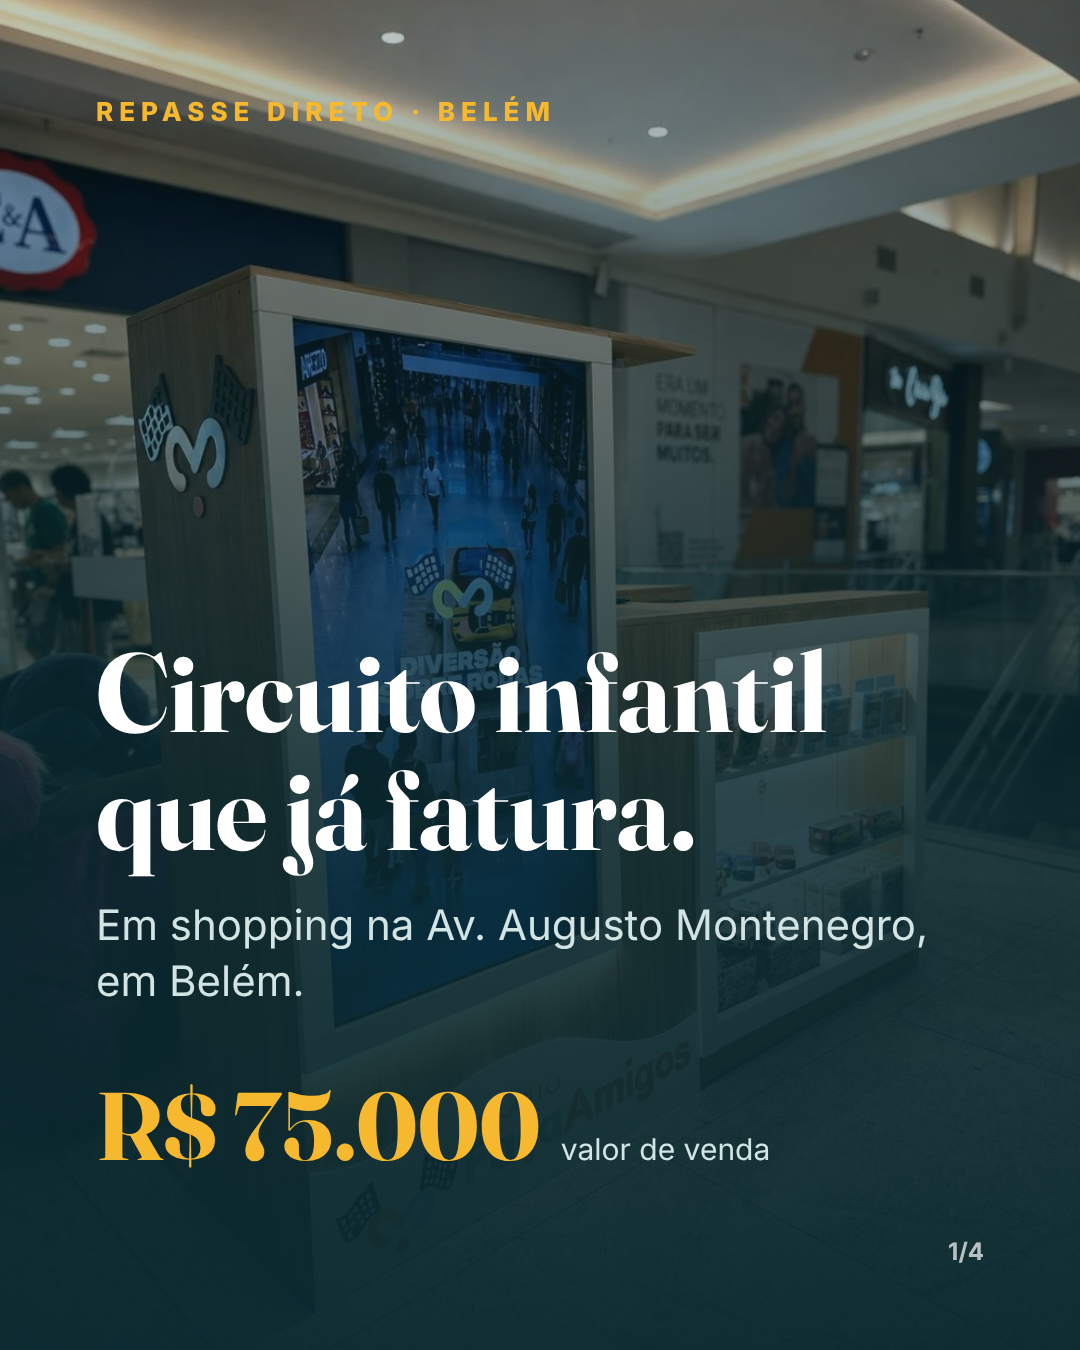
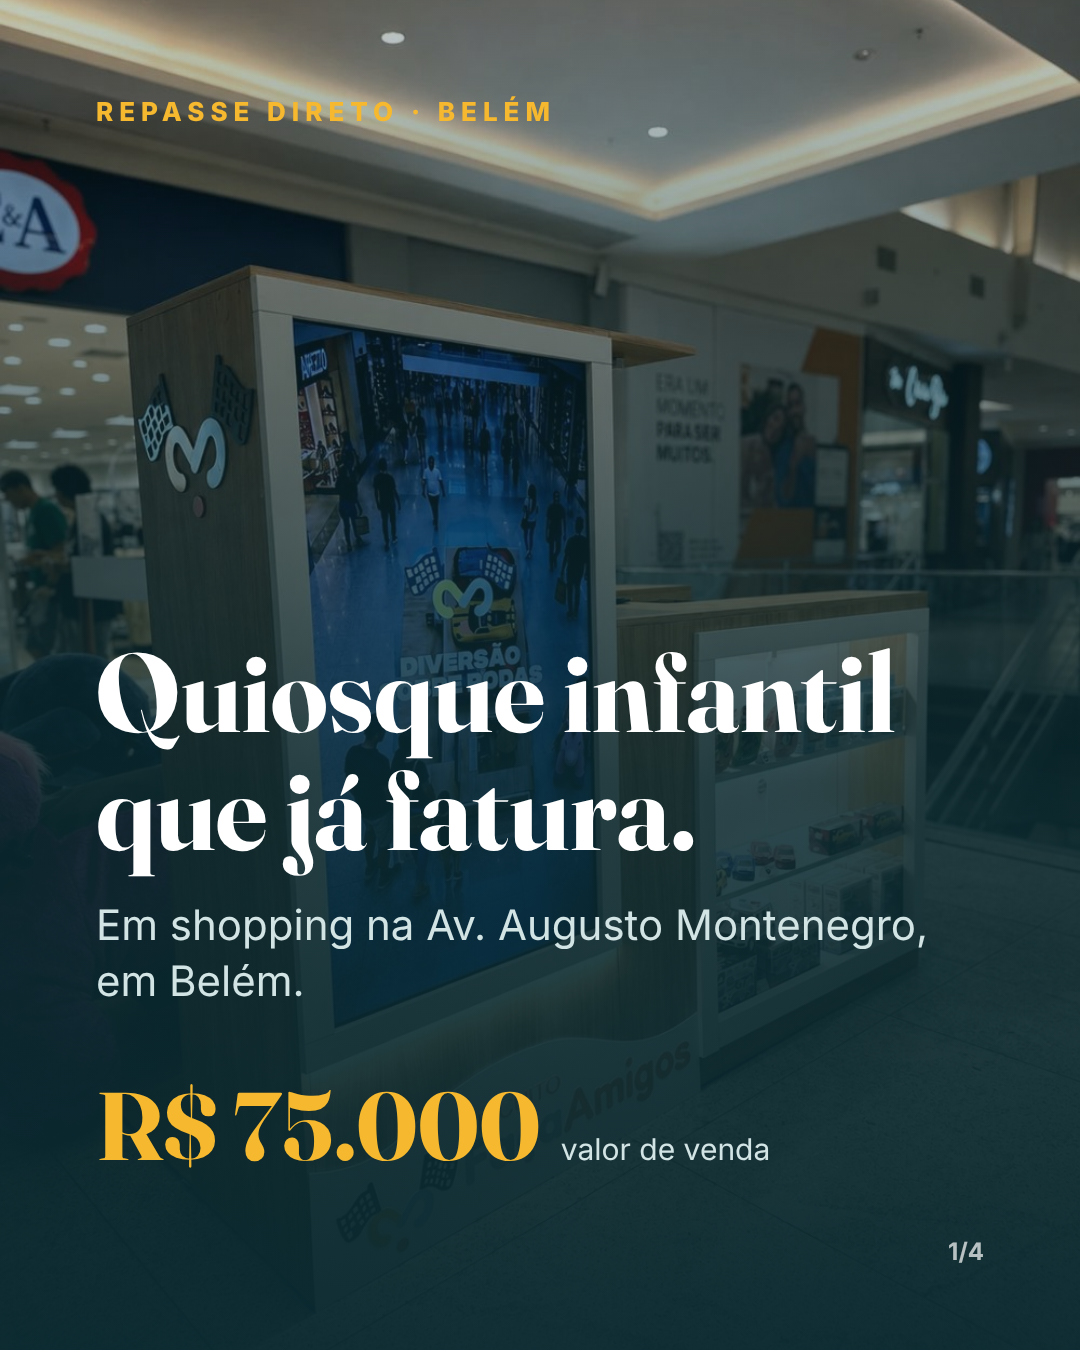
feat: troca circuito por quiosque nos textos da página, slides e legenda
Claude-Session: https://claude.ai/code/session_017CkKxD3f3y8NacZGNLNyWv

Changed region(s): [[0.1222, 0.4667, 0.825, 0.56]]

diff --git a/circuito/index.html b/circuito/index.html
@@ -3,11 +3,11 @@
 <head>
   <meta charset="utf-8">
   <meta name="viewport" content="width=device-width, initial-scale=1">
-  <title>Circuito infantil que já fatura | Av. Augusto Montenegro, Belém</title>
-  <meta name="description" content="Assuma um circuito de veículos elétricos infantis que já fatura, em shopping na Av. Augusto Montenegro, em Belém. Valor de venda R$ 75 mil, com cessão de contrato.">
+  <title>Quiosque infantil que já fatura | Av. Augusto Montenegro, Belém</title>
+  <meta name="description" content="Assuma um quiosque de veículos elétricos infantis que já fatura, em shopping na Av. Augusto Montenegro, em Belém. Valor de venda R$ 75 mil, com cessão de contrato.">
   <link rel="canonical" href="https://franquia-belem.netlify.app/circuito/">
   <meta property="og:type" content="website">
-  <meta property="og:title" content="Circuito infantil que já fatura | Repasse R$ 75 mil">
+  <meta property="og:title" content="Quiosque infantil que já fatura | Repasse R$ 75 mil">
   <meta property="og:description" content="Operação em andamento, faturamento médio de R$ 14,7 mil por mês (PDV). Valor de venda R$ 75.000.">
   <meta property="og:url" content="https://franquia-belem.netlify.app/circuito/">
   <meta property="og:image" content="https://franquia-belem.netlify.app/circuito/images/circuito-quiosque-frente.jpg">
@@ -30,7 +30,7 @@
 
 <header class="top">
   <div class="wrap">
-    <b>FaçaAmigos | Repasse do circuito</b>
+    <b>FaçaAmigos | Repasse do quiosque</b>
     <a class="btn" href="#interesse" data-cta="header">Quero ver os números</a>
   </div>
 </header>
@@ -41,7 +41,7 @@
   <div class="wrap grid">
     <div class="copy">
       <span class="eyebrow" style="color:var(--amarelo)">Repasse direto, sem intermediários</span>
-      <h1>Circuito infantil que já fatura, em shopping na Av. Augusto Montenegro.</h1>
+      <h1>Quiosque infantil que já fatura, em shopping na Av. Augusto Montenegro.</h1>
       <p class="lead">Fechada a cessão pelo shopping, você assume no dia seguinte, com a sua marca.</p>
       <div class="stats" aria-label="Números da operação">
         <div><b class="price">R$ 75.000</b><span>valor de venda</span></div>
@@ -79,7 +79,7 @@
   <div class="wrap">
     <span class="eyebrow">A pergunta que você vai fazer</span>
     <h2>Por que vender uma operação com 3 meses?</h2>
-    <p class="lead-p">Sou a FaçaAmigos. Montei este circuito em 2026 e hoje concentro capital e equipe nos Playgrounds, na Clínica e no Instituto. O circuito funciona e fatura, mas precisa de um operador dedicado para crescer, e esse não é mais o meu foco.</p>
+    <p class="lead-p">Sou a FaçaAmigos. Montei este quiosque em 2026 e hoje concentro capital e equipe nos Playgrounds, na Clínica e no Instituto. O quiosque funciona e fatura, mas precisa de um operador dedicado para crescer, e esse não é mais o meu foco.</p>
     <p class="lead-p">O histórico é curto e eu digo isso de frente: são 3 meses de dados reais de PDV, que você confere nos extratos depois do termo de sigilo.</p>
   </div>
 </section>
@@ -89,7 +89,7 @@
     <span class="eyebrow">A operação hoje</span>
     <h2>Quiosque montado, frota rodando</h2>
     <div class="gallery">
-      <img class="p" src="images/circuito-quiosque-frente.jpg" alt="Quiosque do circuito com painel de vídeo e vitrine, em shopping de Belém" loading="lazy" width="1000" height="1333">
+      <img class="p" src="images/circuito-quiosque-frente.jpg" alt="Quiosque com painel de vídeo e vitrine, em shopping de Belém" loading="lazy" width="1000" height="1333">
       <img class="p" src="images/circuito-quiosque-painel.jpg" alt="Painel de vídeo do quiosque exibindo a frota de carrinhos elétricos" loading="lazy" width="1000" height="1333">
       <img class="p p3" src="images/circuito-buggy.jpg" alt="Buggy elétrico infantil bege e preto sobre a pista de madeira" loading="lazy" width="1000" height="1333">
       <img class="w" src="images/circuito-carros-amarelo-branco.jpg" alt="Esportivo amarelo e SUV branco elétricos infantis sobre a prateleira da pista" loading="lazy" width="1400" height="1050">
@@ -113,7 +113,7 @@
         <h3>Incluído na venda</h3>
         <ul class="ticks">
           <li>9 veículos elétricos e acessórios: 4 pelúcias, moto, jipe, carro de bombeiros, SUV branco e esportivo amarelo</li>
-          <li>Quiosque com marcenaria, tela de LED de 50 polegadas, impressora de cupom não fiscal, notebook Core i5, câmeras de monitoramento, carregador rápido e 10 baterias extras</li>
+          <li>Marcenaria do quiosque, tela de LED de 50 polegadas, impressora de cupom não fiscal, notebook Core i5, câmeras de monitoramento, carregador rápido e 10 baterias extras</li>
           <li>Cessão do contrato de locação com o shopping, sujeita à aprovação dele</li>
           <li>Procedimentos operacionais documentados</li>
           <li>Equipe atual: 2 funcionárias treinadas, em escala 12x36, com a transferência incluída</li>
@@ -124,7 +124,7 @@
         <ul class="ticks no">
           <li>Marca e personagens da FaçaAmigos. Você opera sob marca própria.</li>
         </ul>
-        <p class="note">Você compra uma operação, não uma franquia nem uma licença de marca. A identidade do circuito é sua.</p>
+        <p class="note">Você compra uma operação, não uma franquia nem uma licença de marca. A identidade do quiosque é sua.</p>
       </div>
     </div>
   </div>
@@ -183,8 +183,8 @@
     <span class="eyebrow">Perguntas frequentes</span>
     <h2>Dúvidas antes de pedir os números</h2>
     <details><summary>O shopping pode recusar a cessão?</summary><p>Pode. A cessão depende da aprovação do shopping, por isso é a última etapa antes de você assumir. Acompanho a conversa com o shopping junto com você.</p></details>
-    <details><summary>Preciso ter experiência com circuito infantil?</summary><p>Não é pré-requisito. A operação tem procedimentos documentados. Quem aproveita melhor o potencial é quem vai estar presente na gestão.</p></details>
-    <details><summary>A FaçaAmigos tem um Playground no mesmo shopping. Isso concorre com o circuito?</summary><p>Mantenho um Playground no mesmo shopping. São produtos diferentes: o Playground é um espaço de brincar, e o circuito é passeio em veículos elétricos. Aceito cláusula de não concorrência, a combinar com você, para que a operação que você comprar não dispute o mesmo público comigo.</p></details>
+    <details><summary>Preciso ter experiência com quiosque infantil?</summary><p>Não é pré-requisito. A operação tem procedimentos documentados. Quem aproveita melhor o potencial é quem vai estar presente na gestão.</p></details>
+    <details><summary>A FaçaAmigos tem um Playground no mesmo shopping. Isso concorre com o quiosque?</summary><p>Mantenho um Playground no mesmo shopping. São produtos diferentes: o Playground é um espaço de brincar, e o quiosque é passeio em veículos elétricos. Aceito cláusula de não concorrência, a combinar com você, para que a operação que você comprar não dispute o mesmo público comigo.</p></details>
     <details><summary>Posso usar a marca e os personagens da FaçaAmigos?</summary><p>Não. Marca e personagens não estão incluídos. Você opera sob marca própria.</p></details>
     <details><summary>O que os R$ 75 mil incluem?</summary><p>É o valor agregado da operação: veículos, acessórios, estrutura da pista, equipamentos de apoio e cessão do contrato com o shopping (sujeita à aprovação).</p></details>
     <details><summary>Qual é o lucro mensal?</summary><p>Não publico lucro em página aberta. O faturamento médio é de R$ 14,7 mil por mês. Custos e resultado vêm com os documentos, depois do termo de sigilo.</p></details>
@@ -204,7 +204,7 @@
 
 <footer>
   <div class="wrap">
-    <p><b>FaçaAmigos</b> | Repasse do circuito de veículos elétricos infantis, Belém (PA)</p>
+    <p><b>FaçaAmigos</b> | Repasse do quiosque de veículos elétricos infantis, Belém (PA)</p>
     <p>Contato: <a href="mailto:institutofacaamigos@gmail.com">institutofacaamigos@gmail.com</a>. As informações sobre a operação são enviadas depois do preenchimento do formulário.</p>
     <p>Os números são médias históricas de PDV e não constituem garantia de resultado futuro. A cessão do contrato depende da aprovação do shopping. © <span id="year"></span></p>
   </div>

diff --git a/instagram-posts/circuito-slides.html b/instagram-posts/circuito-slides.html
@@ -1,6 +1,6 @@
 <!doctype html>
 <html lang="pt-BR"><head><meta charset="utf-8">
-<title>Circuito: carrossel de venda</title>
+<title>Quiosque: carrossel de venda</title>
 <link rel="preconnect" href="https://fonts.googleapis.com"><link rel="preconnect" href="https://fonts.gstatic.com" crossorigin>
 <link href="https://fonts.googleapis.com/css2?family=Fraunces:opsz,wght@9..144,600;9..144,700&family=Inter:wght@400;600;700;800&display=swap" rel="stylesheet">
 <style>
@@ -22,7 +22,7 @@ h1,h2,.big{font-family:Fraunces,Georgia,serif;font-weight:700;line-height:1.05}
 <div class="slide photo" style="background-image:linear-gradient(to top,rgba(10,42,49,.97) 0%,rgba(10,42,49,.86) 42%,rgba(10,42,49,.25) 100%),url(../circuito/images/circuito-quiosque-frente.jpg)">
   <p class="kick">Repasse direto · Belém</p>
   <div class="sp"></div>
-  <h1 style="font-size:112px;max-width:880px">Circuito infantil que já fatura.</h1>
+  <h1 style="font-size:112px;max-width:880px">Quiosque infantil que já fatura.</h1>
   <p style="font-size:42px;line-height:1.35;margin-top:28px;max-width:860px;color:#D3E4E5">Em shopping na Av. Augusto Montenegro, em Belém.</p>
   <div style="margin-top:56px;padding-bottom:70px"><span style="font-family:Fraunces,serif;font-weight:700;font-size:96px;color:#F5B82E">R$ 75.000</span><span style="font-size:30px;margin-left:20px;color:#D3E4E5">valor de venda</span></div>
   <p class="pg">1/4</p>
@@ -50,7 +50,7 @@ h1,h2,.big{font-family:Fraunces,Georgia,serif;font-weight:700;line-height:1.05}
   <h2 style="font-size:84px;margin-top:40px;color:#0F3A43">Operação inteira,<br>com a sua marca.</h2>
   <div style="margin-top:40px;font-size:38px;line-height:1.3;display:grid;gap:18px">
     <p>✓&nbsp; 9 veículos elétricos e acessórios</p>
-    <p>✓&nbsp; Quiosque com tela de LED de 50 polegadas, notebook e câmeras</p>
+    <p>✓&nbsp; Marcenaria do quiosque, tela de LED de 50 polegadas, notebook e câmeras</p>
     <p>✓&nbsp; Equipe atual: 2 funcionárias treinadas</p>
     <p>✓&nbsp; Procedimentos documentados</p>
     <p>✓&nbsp; Cessão do contrato com o shopping, sujeita à aprovação dele</p>

diff --git a/circuito/script.js b/circuito/script.js
@@ -1,6 +1,6 @@
 // Preencher com o número oficial (somente dígitos, com DDI). Vazio = botão de WhatsApp fica oculto.
 const WHATSAPP_NUMBER = "";
-const WHATSAPP_MSG = "Olá! Vi a página do circuito infantil e quero receber os números sob termo de sigilo.";
+const WHATSAPP_MSG = "Olá! Vi a página do quiosque infantil e quero receber os números sob termo de sigilo.";
 
 document.getElementById("year").textContent = new Date().getFullYear();
 

diff --git a/instagram-posts/legenda-circuito.md b/instagram-posts/legenda-circuito.md
@@ -1,16 +1,16 @@
-# Legenda: carrossel do repasse do circuito
+# Legenda: carrossel do repasse do quiosque
 
 Postar as 4 imagens `circuito-post-1.png` a `circuito-post-4.png`, nessa ordem (1080x1350, formato 4:5).
 
 ## Legenda (copiar e colar)
 
-Estou repassando o circuito de veículos elétricos infantis da FaçaAmigos.
+Estou repassando o quiosque de veículos elétricos infantis da FaçaAmigos.
 
 Ele fica em um shopping na Av. Augusto Montenegro, em Belém, e já opera: R$ 14,7 mil de faturamento médio por mês (média de set a nov/2026, dados do PDV).
 
 O que você assume:
 ✓ 9 veículos elétricos e acessórios
-✓ Quiosque com marcenaria, tela de LED de 50 polegadas, impressora de cupom não fiscal, notebook Core i5, câmeras de monitoramento, carregador rápido e 10 baterias extras
+✓ Marcenaria do quiosque, tela de LED de 50 polegadas, impressora de cupom não fiscal, notebook Core i5, câmeras de monitoramento, carregador rápido e 10 baterias extras
 ✓ Equipe atual: 2 funcionárias treinadas
 ✓ Procedimentos documentados
 ✓ Cessão do contrato com o shopping, sujeita à aprovação dele
@@ -23,7 +23,7 @@ Faturamento é receita bruta e média histórica, não lucro nem garantia de res
 
 Quer ver os números? Preencha o formulário no link da bio.
 
-#circuitoinfantil #oportunidadedenegocio #empreendedorismo #belemdopara #carrinhoeletrico
+#quiosqueinfantil #oportunidadedenegocio #empreendedorismo #belemdopara #carrinhoeletrico
 
 ## Link da bio
 
@@ -33,6 +33,6 @@ https://franquia-belem.netlify.app/circuito-ig
 
 ## Antes de postar
 
-- O link da bio só funciona depois do merge do PR do circuito.
+- O link da bio só funciona depois do merge do PR do quiosque.
 - Os slides citam apenas a avenida. Não escreva o nome do shopping nos comentários.
-- Não coloque a etiqueta de preço do circuito (R$ 48) nos stories ou nos comentários, para não revelar o ticket médio.
+- Não coloque a etiqueta de preço do quiosque (R$ 48) nos stories ou nos comentários, para não revelar o ticket médio.
